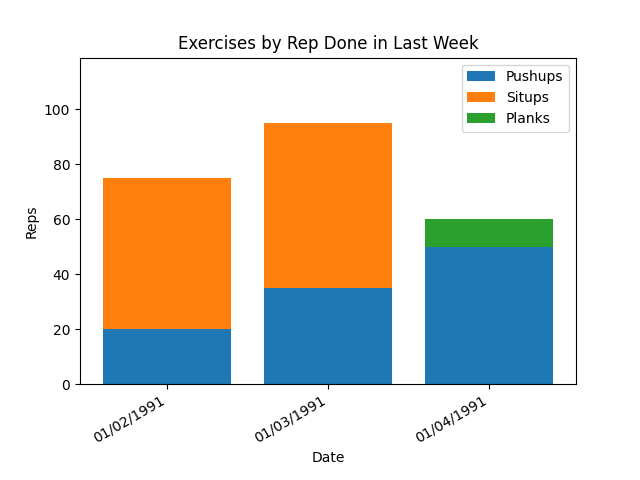
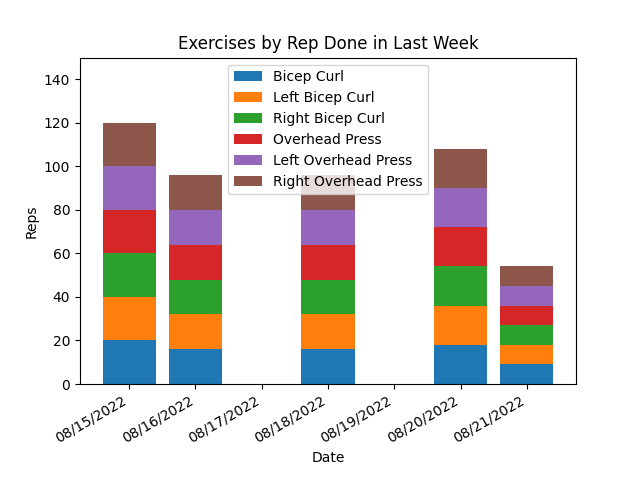
Finalized computations

diff --git a/db/statistics.py b/db/statistics.py
@@ -1,0 +1,140 @@
+#import string
+from datetime import datetime, timedelta
+from graphing.generate_graphs import generate_time_graph, generate_reps_graph
+from db import connect
+from db.utils import generate_id
+
+
+WORKOUT_MODES = ["Bicep Curl", "Left Bicep Curl", "Right Bicep Curl", "Overhead Press", "Left Overhead Press", "Right Overhead Press"]
+class StatisticsModel:
+    def grab_data(self, user_id: int, date_index: str):
+        return connect().execute("""
+        SELECT * FROM statistics WHERE user_id = ? AND date = ?
+        """, (user_id, date_index)).fetchone()
+
+    def verify_exists(self, user_id: int, date_index: str):
+        node = self.grab_data(user_id, date_index)
+
+        if node == None:
+            # Create node for the day
+            print("Creating stat node")
+            conn = connect()
+            conn.execute(
+                "INSERT INTO statistics VALUES (:id, :date, :data, :user_id)",
+                {"id": generate_id(), "date": date_index, "data": ",".join(["0" for i in range(13)]), "user_id": user_id}
+            );
+            conn.commit()
+            print("Created stat node")
+
+    def updateStats(self, user_id: int, mode: str, reps: int, minutes_taken: int, date_index: str):
+        # Check if user id node for today exists
+        self.verify_exists(user_id, date_index)
+
+        # Update today's node
+        #today = datetime.today().strftime('%d-%m-%Y')
+        node = self.grab_data(user_id, date_index)
+        ind_change = WORKOUT_MODES.index(mode)
+        listing = [int(e) for e in node[2].split(",")]
+        listing[ind_change] += reps
+        listing[ind_change + 6] += minutes_taken
+        listing[12] += 1
+        new_val = ",".join([str(e) for e in listing])
+        
+        # Update in DB
+        conn = connect()
+        conn.execute("UPDATE statistics SET data = ? WHERE user_id = ? AND date = ?;", (new_val, user_id, date_index));
+        conn.commit()
+        print("updated", new_val)
+        return
+
+"""
+ id INT PRIMARY KEY          NOT NULL,
+            date                TEXT    NOT NULL,
+            data                TEXT    NOT NULL,
+            user_id             INT     NOT NULL
+"""
+
+def init():
+    print("Running stat mock data creation")            # adds previous days of the week (as we cant add it ourselves)
+    statisticsModel = StatisticsModel()
+    # user id, mode,        reps, minutes_taken, day
+    """
+    d = datetime(2022, 8, 15).strftime('%d-%m-%Y')
+    statisticsModel.updateStats(1500, "Bicep Curl",             15, 10, d)
+    statisticsModel.updateStats(1500, "Left Bicep Curl",        15, 7, d)
+    statisticsModel.updateStats(1500, "Right Bicep Curl",       15, 8, d)
+    statisticsModel.updateStats(1500, "Overhead Press",         15, 18, d)
+    statisticsModel.updateStats(1500, "Left Overhead Press",    15, 12, d)
+    statisticsModel.updateStats(1500, "Right Overhead Press",   15, 23, d)
+    statisticsModel.updateStats(1500, "Bicep Curl",             5, 15, d)
+
+    
+    d = datetime(2022, 8, 16).strftime('%d-%m-%Y')
+    statisticsModel.updateStats(1500, "Bicep Curl",             15, 9, d)
+    statisticsModel.updateStats(1500, "Left Bicep Curl",        16, 9, d)
+    statisticsModel.updateStats(1500, "Overhead Press",         18, 15, d)
+    statisticsModel.updateStats(1500, "Left Overhead Press",    20, 18, d)
+    statisticsModel.updateStats(1500, "Bicep Curl",             10, 25, d)
+
+    
+    d = datetime(2022, 8, 17).strftime('%d-%m-%Y')
+    statisticsModel.updateStats(1500, "Overhead Press",         25, 15, d)
+    statisticsModel.updateStats(1500, "Left Overhead Press",    30, 20, d)
+    statisticsModel.updateStats(1500, "Right Overhead Press",   30, 35, d)
+
+    d = datetime(2022, 8, 18).strftime('%d-%m-%Y')
+    statisticsModel.updateStats(1500, "Bicep Curl",             16, 9, d)
+    statisticsModel.updateStats(1500, "Left Bicep Curl",        17, 6, d)
+    statisticsModel.updateStats(1500, "Right Bicep Curl",       16, 7, d)
+    statisticsModel.updateStats(1500, "Overhead Press",         16, 17, d)
+    statisticsModel.updateStats(1500, "Left Overhead Press",    16, 11, d)
+    statisticsModel.updateStats(1500, "Right Overhead Press",   16, 22, d)
+    statisticsModel.updateStats(1500, "Bicep Curl",             6, 14, d)
+
+    # ignore 19th
+
+    d = datetime(2022, 8, 20).strftime('%d-%m-%Y')
+    statisticsModel.updateStats(1500, "Bicep Curl",             18, 8, d)
+    statisticsModel.updateStats(1500, "Left Bicep Curl",        18, 5, d)
+    statisticsModel.updateStats(1500, "Right Bicep Curl",       18, 6, d)
+    statisticsModel.updateStats(1500, "Overhead Press",         18, 15, d)
+    statisticsModel.updateStats(1500, "Left Overhead Press",    18, 10, d)
+    statisticsModel.updateStats(1500, "Right Overhead Press",   18, 10, d)
+    statisticsModel.updateStats(1500, "Bicep Curl",             20, 20, d)
+
+    
+    d = datetime(2022, 8, 21).strftime('%d-%m-%Y')
+    statisticsModel.updateStats(1500, "Bicep Curl",             20, 8, d)
+    statisticsModel.updateStats(1500, "Left Bicep Curl",        21, 5, d)
+    statisticsModel.updateStats(1500, "Right Bicep Curl",       22, 6, d)
+    statisticsModel.updateStats(1500, "Overhead Press",         23, 15, d)
+    statisticsModel.updateStats(1500, "Left Overhead Press",    15, 10, d)
+    statisticsModel.updateStats(1500, "Right Overhead Press",   18, 10, d)
+    statisticsModel.updateStats(1500, "Bicep Curl",             30, 1, d)
+    """
+
+    
+    start_date = datetime(2022, 8, 15)
+    dates = [(start_date + timedelta(days=i)).strftime('%m/%d/%Y') for i in range(7)]
+    total_times = [0 for i in range(7)]
+    rep_counts = {e : [0 for i in range(7)] for e in WORKOUT_MODES}
+
+    # update
+    for i in range(7):
+        d = (datetime(2022, 8, 15) + timedelta(days=i)).strftime('%d-%m-%Y')
+        node = statisticsModel.grab_data(1500, d)
+        if node:
+            data = [int(e) for e in node[2].split(",")]
+            total_times[i] += sum(data[5:12])
+            for m in range(6):
+                mode = WORKOUT_MODES[m]
+                rep_counts[mode][i] += data[i]
+            
+    
+    #print(dates)
+    #print(total_times)
+    #print(rep_counts)
+
+    generate_time_graph(dates, total_times)
+    generate_reps_graph(dates, rep_counts)
+    

diff --git a/sessionModels.py b/sessionModels.py
@@ -1,11 +1,16 @@
 from exercise.util import bone, angle
+#from db.statistics import StatisticsModel
 import time
 
+#statisticModel = StatisticsModel()
 class workoutSession:
     def __init__(self, max_reps, routine_data, routine_counter):
         self.max_reps = max_reps
         self.routine_data = routine_data
         self.routine_counter = routine_counter
+
+#    def finished(): #update stats
+#        statisticModel.updateStats()
 
     time_started =  time.time()
     lastWarned = time.time()
@@ -104,7 +109,7 @@ class curlSession(workoutSession):
 
 def makeSession(mode: str, max_reps, routine_data, routine_counter) -> workoutSession:
     if mode.find("Bicep") > -1 or mode.find("Overhead") > -1:
-        session = curlSession(max_reps, routine_data, routine_counter, mode.find("Right") > -1, mode.find("Left") > -1, mode.find("Overhead") > -1)
+        session = curlSession(max_reps, routine_data, routine_counter, mode.find("Left") == -1, mode.find("Right") == -1, mode.find("Overhead") > -1)
         return session
 
     else:

diff --git a/graphing/generate_graphs.py b/graphing/generate_graphs.py
@@ -13,7 +13,7 @@ def generate_time_graph(dates, timeInMinutes):
   plt.xlabel('Date')
   plt.ylabel('Time in Minutes')
   plt.gcf().autofmt_xdate()
-  plt.savefig('./statistics/graphs/time_graph.png')
+  plt.savefig('./graphing/graphs/time_graph.png')
   line = line.pop(0)
   line.remove()
 
@@ -32,7 +32,7 @@ def generate_reps_graph(dates, repsPerDay):
   plt.legend(repsPerDay.keys())
   plt.ylim([0, max(prev) * 1.25])
   plt.title('Exercises by Rep Done in Last Week')
-  plt.savefig('./statistics/graphs/reps_graph.png')
+  plt.savefig('./graphing/graphs/reps_graph.png')
 
 if __name__ == "__main__":
     dates = ['01/02/1991','01/03/1991','01/04/1991']

diff --git a/main.py b/main.py
@@ -13,6 +13,7 @@ from Account.signin import signin_blueprint
 from UDPHandler import updupdate_blueprint
 from User.workout import workout_blueprint
 from User.workout_set import routine_blueprint
+from db.statistics import init as statInit
 
 load_dotenv()
 
@@ -57,6 +58,7 @@ def streamListener():
 
 if __name__ == "__main__":
     app = intializeBackend()
+    #statInit()
     t1 = threading.Thread(target=streamListener)
     t1.daemon = True
     t1.start()

diff --git a/db/__init__.py b/db/__init__.py
@@ -55,6 +55,16 @@ def migrate():
         )
     ''')
 
+    print("Migrating statistics table...")
+    conn.execute('''
+        CREATE TABLE IF NOT EXISTS statistics (
+            id INT PRIMARY KEY          NOT NULL,
+            date                TEXT    NOT NULL,
+            data                TEXT    NOT NULL,
+            user_id             INT     NOT NULL
+        )
+    ''')
+
 
 def purge():
     conn = connect()
